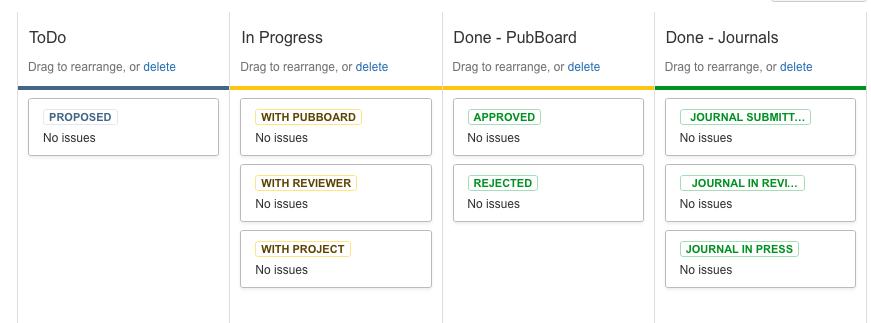
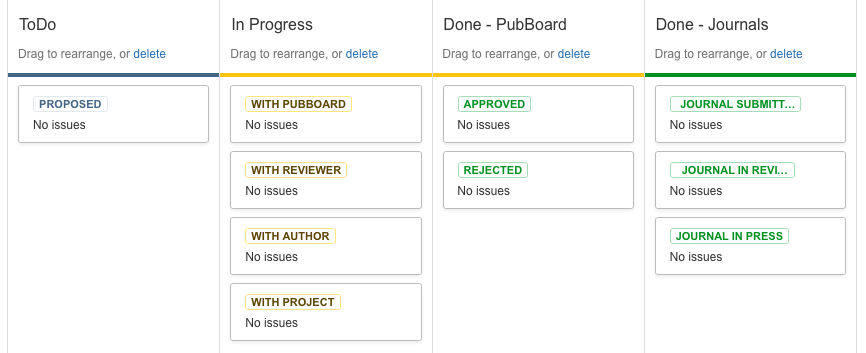
Added 'With Author' to diagram and documentation

diff --git a/index.rst b/index.rst
@@ -36,13 +36,17 @@ With PubBoard
     Awaiting Action from the PubBoard (referee assignment, approval etc)
 With Reviewer
     The paper is with the reviewer assigned by the pub board
+With Author
+    The paper is with the author (eg. for edits)
 With Project
     The paper is in its project-wide consultation period
 
 Depending on the extent of comments received, a paper may transition
 several times between these statuses. For example it may bounce between
 the author and reviewer several times as comments are made and
-addressed. 
+addressed.
+
+
 
 Done Statuses - Pub Board
 -------------------------
@@ -90,6 +94,13 @@ Subsystem
     An LSST subsystem if one is clearly identified with this publication
 
 
+Swimlanes
+=========
+
+Swimlanes have been configured to display per assigne, and
+unassigned. This should help figure out if any particular reviewer is
+a bottleneck.
+	
 Links
 =====
 
